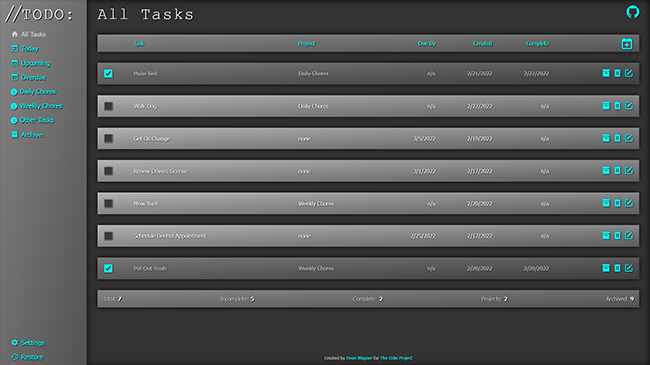
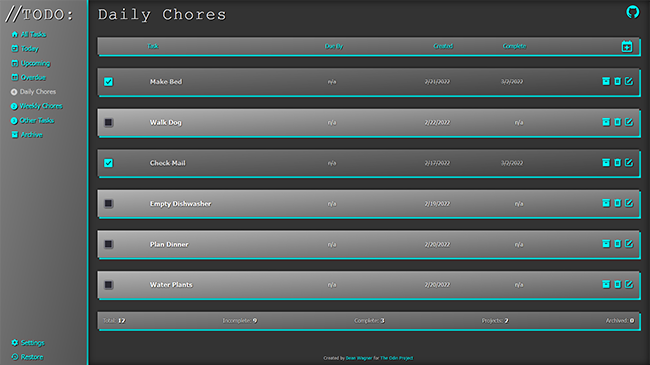
UI update

diff --git a/res/list.js b/res/list.js
@@ -53,6 +53,15 @@ class List {
         status   : 0,
         archive  : 0
     }, {
+        id       : 'okmnjiuhbvgy',
+        name     : 'Check Mail',
+        project  : 'Daily Chores',
+        due      : 0,
+        created  : new Date('2022-02-18').getTime(),
+        complete : 0,
+        status   : 1,
+        archive  : 0
+    }, {
         id       : 'edcrfvujmygv',
         name     : 'Renew Drivers License',
         project  : '',
@@ -116,131 +125,14 @@ class List {
         status   : 0,
         archive  : 0
     }, {
-        id       : 'dfggdshjkjvbn',
-        name     : 'Intermediate HTML and CSS',
-        project  : 'Odin Project',
+        id       : 'dcfvgtresdfghjmn',
+        name     : 'Water Plants',
+        project  : 'Daily Chores',
         due      : 0,
-        created  : new Date('2022-01-11').getTime(),
-        complete : new Date('2022-01-12').getTime(),
-        status   : 1,
-        archive  : 0
-    }, {
-        id       : 'lkjhkfhuimhj',
-        name     : 'JavaScript',
-        project  : 'Odin Project',
-        due      : 0,
-        created  : new Date('2022-01-11').getTime(),
+        created  : new Date('2022-02-21').getTime(),
         complete : 0,
         status   : 0,
         archive  : 0
-    }, {
-        id       : 'zxcvfdsdsar',
-        name     : 'Advanced HTML and CSS',
-        project  : 'Odin Project',
-        due      : 0,
-        created  : new Date('2022-01-11').getTime(),
-        complete : 0,
-        status   : 0,
-        archive  : 0
-    }, {
-        id       : 'mnbvhgjkliuy',
-        name     : 'NodeJS',
-        project  : 'Odin Project',
-        due      : 0,
-        created  : new Date('2022-01-11').getTime(),
-        complete : 0,
-        status   : 0,
-        archive  : 0
-    }, {
-        id       : 'vcxxzdfkljh',
-        name     : 'Getting Hired',
-        project  : 'Odin Project',
-        due      : 0,
-        created  : new Date('2022-01-11').getTime(),
-        complete : 0,
-        status   : 0,
-        archive  : 0
-    }, {
-        id       : 'qwerrgfdfgd',
-        name     : 'Introduction',
-        project  : 'Odin Project',
-        due      : 0,
-        created  : new Date('2022-01-01').getTime(),
-        complete : new Date('2022-01-02').getTime(),
-        status   : 1,
-        archive  : 1
-    }, {
-        id       : 'jhkkgkgyign',
-        name     : 'Installations',
-        project  : 'Odin Project',
-        due      : 0,
-        created  : new Date('2022-01-01').getTime(),
-        complete : new Date('2022-01-03').getTime(),
-        status   : 1,
-        archive  : 1
-    }, {
-        id       : 'tryhgfgjjyut',
-        name     : 'Git Basics',
-        project  : 'Odin Project',
-        due      : 0,
-        created  : new Date('2022-01-01').getTime(),
-        complete : new Date('2022-01-04').getTime(),
-        status   : 1,
-        archive  : 1
-    }, {
-        id       : 'trytrytyjhfgds',
-        name     : 'HTML Foundations',
-        project  : 'Odin Project',
-        due      : 0,
-        created  : new Date('2022-01-01').getTime(),
-        complete : new Date('2022-01-05').getTime(),
-        status   : 1,
-        archive  : 1
-    }, {
-        id       : 'trytrytyjhfgds',
-        name     : 'CSS Foundations',
-        project  : 'Odin Project',
-        due      : 0,
-        created  : new Date('2022-01-01').getTime(),
-        complete : new Date('2022-01-06').getTime(),
-        status   : 1,
-        archive  : 1
-    }, {
-        id       : 'qxcxzkjlkjiio',
-        name     : 'Flexbox',
-        project  : 'Odin Project',
-        due      : 0,
-        created  : new Date('2022-01-01').getTime(),
-        complete : new Date('2022-01-07').getTime(),
-        status   : 1,
-        archive  : 1
-    }, {
-        id       : 'poipopoujhkh',
-        name     : 'JavaScript Basics',
-        project  : 'Odin Project',
-        due      : 0,
-        created  : new Date('2022-01-01').getTime(),
-        complete : new Date('2022-01-08').getTime(),
-        status   : 1,
-        archive  : 1
-    }, {
-        id       : 'uiuyrrtytrgh',
-        name     : 'The Back End',
-        project  : 'Odin Project',
-        due      : 0,
-        created  : new Date('2022-01-01').getTime(),
-        complete : new Date('2022-01-09').getTime(),
-        status   : 1,
-        archive  : 1
-    }, {
-        id       : 'bvnbcghqwerty',
-        name     : 'Conclusion',
-        project  : 'Odin Project',
-        due      : 0,
-        created  : new Date('2022-01-01').getTime(),
-        complete : new Date('2022-01-10').getTime(),
-        status   : 1,
-        archive  : 1
     }];
 
     /**

diff --git a/res/todo.css b/res/todo.css
@@ -14,7 +14,7 @@
 
 :root {
     /* Default/Light Colors */
-    --color-accent : #009999;
+    --color-accent : #006666;
     --color-shadow : #080808;
     --color-bg     : #fafafa;
     --color-item   : #dddddd;
@@ -26,9 +26,9 @@
     --shadow-text  : 0.05rem 0.05rem 0.1rem rgba(0,0,0,0.3);
     --shadow-title : 0.1rem 0.1rem 0.2rem rgba(0,0,0,0.3);
     --shadow-link  : 0.05rem 0.05rem 0.1rem rgba(0,0,0,0.3);
-    --shadow-box   : 0 0 0.3rem rgba(0,0,0,0.3);
+    --shadow-box   : 0 0 0.3rem rgba(0,0,0,0.3), 0.3rem 0.3rem 0 var(--color-accent);
     --glow-text    : 0 0 0.1rem var(--color-title);
-    --glow-box     : 0 0 0.5rem var(--color-title);
+    --glow-box     : 0 0 0.5rem var(--color-title), 0.3rem 0.3rem 0 var(--color-title);
 
     /* Light Color Scheme */
     color-scheme : light;
@@ -46,9 +46,9 @@
     --dark-shadow-text  : 0.05rem 0.05rem 0.2rem var(--dark-color-shadow);
     --dark-shadow-title : 0.15rem 0.15rem 0.05rem var(--dark-color-shadow);
     --dark-shadow-link  : 0.1rem 0.1rem 0.1rem var(--dark-color-shadow);
-    --dark-shadow-box   : 0 0 1rem var(--dark-color-shadow);
+    --dark-shadow-box   : 0 0 0.5rem rgba(0,0,0,0.8), 0.3rem 0.3rem 0 var(--dark-color-accent);
     --dark-glow-text    : 0 0 0.2rem var(--dark-color-title);
-    --dark-glow-box     : 0 0 0.8rem var(--dark-color-title);
+    --dark-glow-box     : 0 0 0.8rem var(--dark-color-title), 0.3rem 0.3rem 0 var(--dark-color-title);
 
     /* Dark Color Scheme */
     --dark-color-scheme : dark;
@@ -218,7 +218,7 @@ button:hover,
 button:focus,
 button:active {
     background-color: var(--color-title);
-    box-shadow: var(--glow-box);
+    box-shadow: var(--glow-text);
 }
 
 /* * * * * * * * *\
@@ -227,7 +227,7 @@ button:active {
 
 aside {
     background: var(--color-item) var(--gradient-split);
-    box-shadow: var(--shadow-body);
+    box-shadow: var(--shadow-body), 0.3rem 0 0 var(--color-accent);
     display: flex;
     flex-direction: column;
     left: 0;
@@ -426,13 +426,14 @@ main {
 main table {
     border: none;
     border-collapse: separate;
-    border-spacing: 0 2em;
+    border-spacing: 0 2.5em;
     width: 100%;
 }
 
 main table tr {
     background: var(--color-item) var(--gradient-split);
     box-shadow: var(--shadow-box);
+    transition: var(--transition-all);
 }
 
 main table tr td,
@@ -489,9 +490,15 @@ main table tbody tr:hover {
     outline: var(--border-solid);
 }
 
+main table tbody tr td {
+    padding: 1.5em 0.5em;
+}
+
 main table tbody label {
     cursor: pointer;
     display: block;
+    font-size: 1.2rem;
+    font-weight: bold;
 }
 
 main table tbody input[type='checkbox'] {
@@ -499,10 +506,6 @@ main table tbody input[type='checkbox'] {
     cursor: pointer;
     height: 1.5rem;
     width: 1.5rem;
-}
-
-main table tbody label {
-
 }
 
 main table tbody .incomplete {
